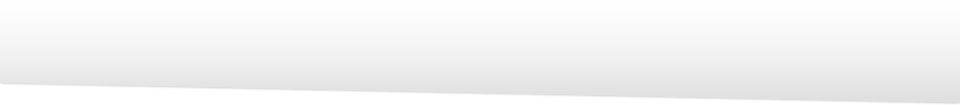
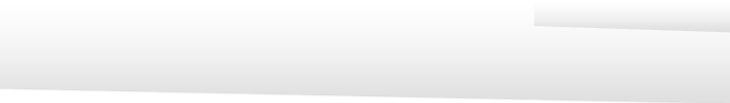
up theme : save direct work

Changed region(s): [[0.0, 0.8155, 0.9342, 0.9903], [0.9342, 0.9903, 1.0, 1.0]]

diff --git a/sites/default/themes/serignan/css/global.css b/sites/default/themes/serignan/css/global.css
@@ -26,18 +26,24 @@ margin-bottom:0;
 
 /*ZONE HEADER*/
 #region-branding{
+background:url("../images/bandeau_logo.png") no-repeat;
+width:230px;
+height:103px;
+z-index: 20;
+margin:0;
+}
+.region-branding-inner{
 background:url("../images/logo_serignan.png") no-repeat;
 width:220px;
 height:110px;
 }
-#zone-header{
-background:url("../images/bandeau_menu.png") no-repeat;
-}
 #region-menu{
+background: url("../images/bandeau_menu.png") no-repeat;
+width: 730px;
+height: 103px;
 z-index: 20;
-position: relative;
+margin:0;
 }
-
 /* BLOCK : LANGUAGE SWITCHER */
 
 .block-locale-language { float: right; }
@@ -105,7 +111,7 @@ margin-top: -10px;
 .megamenu-skin-serignan .megamenu-parent-2 .megamenu-parent-title:hover { background: transparent url("../images/menu_hover_sortir.png") no-repeat top left; padding:15px 0 0 0; width:123px;}
 .megamenu-skin-serignan .megamenu-parent-3 .megamenu-parent-title:hover { background: transparent url("../images/menu_hover_actus.png") no-repeat top left; padding:15px 0 0 0; width:123px;}
 
-.megamenu-skin-serignan .megamenu-bin { background: #fff; border: 5px solid #7f7f7f; left: -250px !important; padding: 20px 50px; width: 850px !important; }
+.megamenu-skin-serignan .megamenu-bin { background: #fff; border: 5px solid #7f7f7f; left: -235px !important; padding: 20px 55px; width: 850px !important; }
 .megamenu-skin-serignan .megamenu-parent-0 .megamenu-bin { border-color: #99cc33; }
 .megamenu-skin-serignan .megamenu-parent-1 .megamenu-bin { border-color: #003366; }
 .megamenu-skin-serignan .megamenu-parent-2 .megamenu-bin { border-color: #3399cc; }
@@ -130,7 +136,6 @@ text-decoration:underline;
 .block-slideshow-block{
 margin-top: -110px;
 margin-left: -38px;
-z-index: -10;
 position: relative;
 }
 .block-slideshow-tourism-block .views-slideshow-controls-text-previous a,
@@ -176,7 +181,7 @@ position: relative;
 float: right;
 margin-top: -160px;
 color: white;
-z-index: 100;
+z-index: 10;
 position: relative;
 clear: right;
 margin-right: 66px;
@@ -328,6 +333,10 @@ text-decoration:underline;
 background: url("../images/img1.jpg") no-repeat;
 width:1019px;
 height:324px;
+margin-left: -40px;
+margin-top: -110px;
+z-index: -100;
+position: relative;
 }
 
 
@@ -337,7 +346,7 @@ background: url("../images/bandeau_recherche.png") no-repeat;
 height: 68px;
 width: 960px;
 margin: 0;
-z-index: 200;
+z-index: 10;
 position: relative;
 margin-top: -45px;
 }
@@ -369,7 +378,66 @@ float:left;
 div#block-print-print-links span{
 display: inline;
 }
+.print_html{
+text-indent:-9999px;
+}
+.print_html a{
+background: url("../images/icon_imp.png") no-repeat;
+width:25px;
+height:25px;
+}
+/*BREADCRUMB*/
+.breadcrumb {
+padding-bottom: 0.5em;
+float: left;
+margin-top: -40px;
+z-index: 10;
+position: relative;
+font-size:11px;
+color:#666;
+background: url("../images/icon_breadcrumb.png") no-repeat left;
+padding-left:22px;
+height: 12px;
+}
+.breadcrumb a:link,
+.breadcrumb a:visited,
+.breadcrumb a:hover{
+color:#666;
+}
 
+/*CKEDITOR*/
+#block-system-main address{
+color:#666;
+font-size:15px;
+}
+#block-system-main h2{
+color:#003366;
+font-size:18px;
+text-transform:uppercase;
+font-weight:bold;
+}
+#block-system-main h3{
+color:#99cc33;
+font-size:18px;
+font-weight:bold;
+}
+#block-system-main h4{
+color:#333;
+font-size:14px;
+font-weight:bold;
+}
+a:link{
+color:#3399cc;
+text-decoration;underline;
+}
+a:hover{
+color:#003366;
+text-decoration;underline;
+}
+a:visited{
+color:#99cc33;
+text-decoration;underline;
+}
 
 /*CONTENT*/
 #zone-preface, #zone-content, #zone-postscript{
@@ -385,6 +453,8 @@ font-style: normal;
 color: #666;
 font-size: 30px;
 text-transform:uppercase;
+margin-bottom: 20px;
+margin-top: 20px;
 }
 .context-actualites h1.title,
 .context-agenda h1.title,
@@ -429,7 +499,7 @@ padding:0;
 .view-display-id-page_subterms .group_content{
 background: url("../images/bg_liste_rubrique_content.jpg") no-repeat #fff;
 padding: 0 10px;
-width:300px;
+width:280px;
 }
 .view-display-id-page_subterms .field-name-title{
 line-height:28px;
@@ -541,7 +611,8 @@ padding-left: 10px;
 }
 .view-id-news.view-display-id-page_list .field-name-body p,
 .view-id-events.view-display-id-page_list .field-name-body p,
-.block-views-sections-content-block-list .field-name-body p{
+.block-views-sections-content-block-list .field-name-body p,
+.block-views-sections-content-block-list .field-name-body address{
 margin:0;
 padding-left: 10px;
 line-height:14px;
@@ -610,6 +681,68 @@ clear:left;
 .node-type-event .node-event .field-name-body{
 background: url("../images/bg_body.jpg") no-repeat #fff;
 padding:15px;
+}
+/*Contenu Fiche type*/
+.node-type-sheet .field-name-field-geoloc{
+float:left;
+}
+.node-type-sheet .group-infos{
+background-color:#888;
+color:#fff;
+height: 170px;
+padding: 20px;
+margin-bottom: 10px;
+width:235px;
+font-size: 13px;
+line-height: 16px;
+}
+.node-type-sheet.context-sortir-decouvrir .group-infos{
+background-color:#3399cc;
+}
+.node-type-sheet.context-vivre-serignan .group-infos{
+background-color:#99cc33;
+}
+.node-type-sheet.context-mairie-services .group-infos{
+background-color:#003366;
+}
+.node-type-sheet .field-name-field-add-infos{
+margin-bottom:10px;
+}
+.node-type-sheet .group-content{
+background: url("../images/bg_body.jpg") no-repeat #fff;
+padding:15px;
+}
+.node-type-sheet .group-content .field-name-field-slideshow{
+float:left;
+margin-right:10px;
+margin-bottom: 25px;
+}
+.node-type-sheet .group-content .field-name-body{
+}
+.node-type-sheet .group-content .field-slideshow-pager{
+margin-top: -25px;
+z-index: 5;
+position: relative;
+}
+.node-type-sheet .group-content .field-slideshow-pager a{
+background-color:#3399cc;
+color:#FFF;
+font-weight:bold;
+float:left;
+padding:0 6px 0 6px;
+margin-left:5px;
+cursor:pointer;
+text-decoration:none;
+}
+.node-type-sheet .group-content .field-slideshow-pager a.activeSlide{
+background-color:#FFF;
+color:#3399cc;
+text-decoration:none;
+}
+/*Contenu Page standard*/
+.node-type-page .field-name-field-picture{
+float:left;
+margin:0 10px 0 0;
 }
 /*Bloc actualites + agenda + zoom home*/
 .block-zoom-block-home,
@@ -830,6 +963,9 @@ background:url("../images/home-col3.png") no-repeat;
 }
 
 /*SIDEBAR*/
+#region-sidebar-second{
+margin-top:20px;
+}
 /*bloc actu + agenda + zoom*/
 .block-zoom-block-sidebar h2.block-title,
 .block-events-block-sidebar h2.block-title,
@@ -1187,6 +1323,16 @@ margin-bottom: 5px;
 line-height: 13px;
 font-size: 11px;
 margin-top: 10px;
+}
+.block-simplenews-0 .form-item-mail{
+margin:0;
+}
+.block-simplenews-0 .form-text.required{
+float:left;
+}
+.block-simplenews-0 .form-item-action{
+float:left;
+margin-right:10px;
 }
 /* Bloc follow us*/
 .block-serignan-blocks-follow-us{
